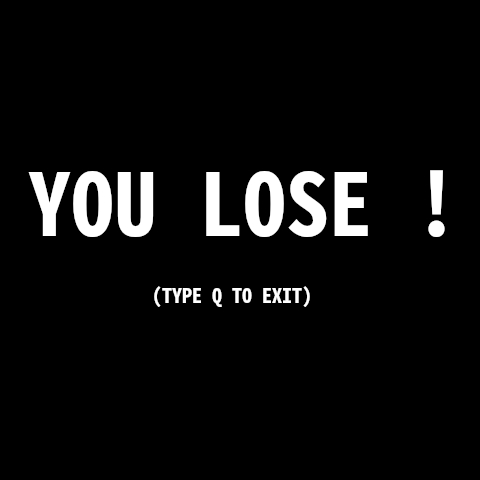
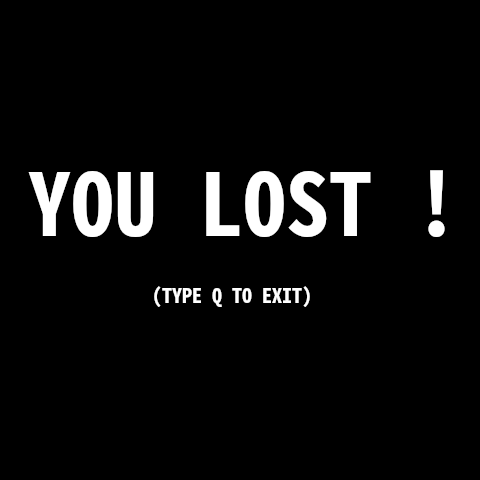
orthographic correction

Changed region(s): [[0.6875, 0.3438, 0.7812, 0.5], [0.75, 0.3438, 0.7812, 0.375]]

diff --git a/Class/Collect.py b/Class/Collect.py
@@ -24,8 +24,11 @@ class Collect:
         losing = pygame.image.load("ressource/Défaite.png").convert()
         lose = losing.get_rect()
 
-        if tuple(mcgyver_position) == tuple(tina_position[1]) and collect != [1, 1, 1]:
-            print("YOU LOSE")
+        if (
+                tuple(mcgyver_position) == tuple(tina_position[1])
+                and collect != [1, 1, 1]
+            ):
+            print("YOU LOST")
             while 1:
                 for event in pygame.event.get():
                     window.blit(losing, (0, 0))
